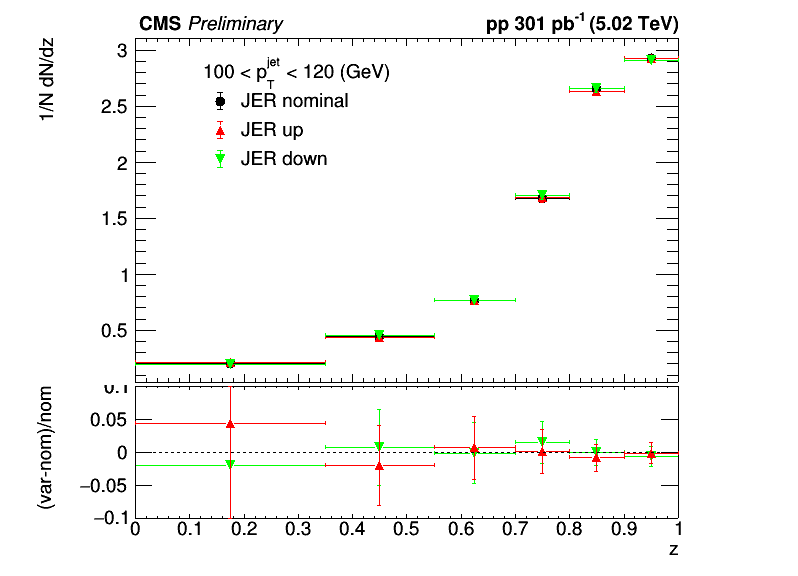
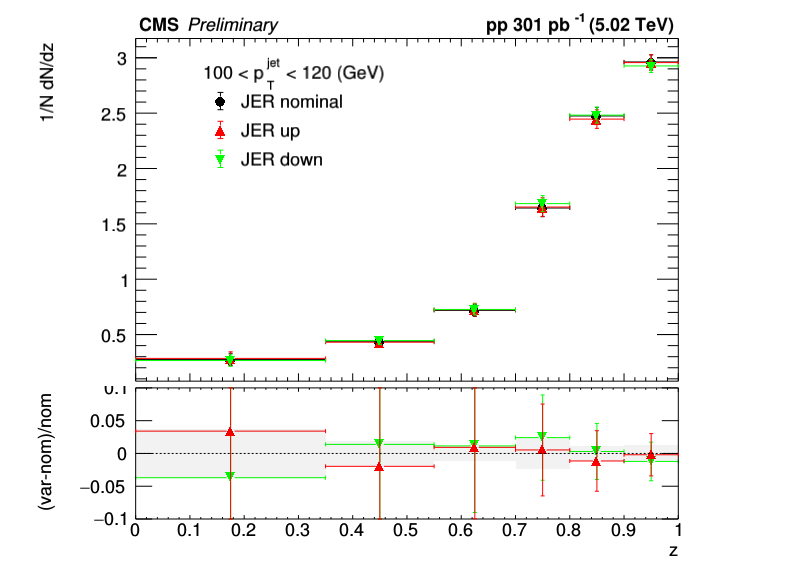
jer for btag with sym

diff --git a/myMacros/C106X/uncertanties/jer_unc.C b/myMacros/C106X/uncertanties/jer_unc.C
@@ -9,8 +9,7 @@ void jer_unc(TString observable="rg")
     gStyle->SetLabelSize(text_size, "XYZ");
     gStyle->SetTitleSize(text_size, "XYZ");
     gStyle->SetErrorX(0.5);
-
-    bool withBtagCorrection = false;
+    gStyle->SetCanvasPreferGL(kTRUE);
 
     TString xlabel;
     if (observable=="rg") xlabel = "ln(0.4/R_{g})";
@@ -41,7 +40,9 @@ void jer_unc(TString observable="rg")
     std::vector<TPad *> bottom_pads = {pad11, pad12, pad13};
     std::vector<TPad *> top_pads = {pad21, pad22, pad23};
     
-    TFile *fout = new TFile("./histos/"+observable+"_jer_unc_XXT.root", "recreate");
+    TString fout_name = "./histos/"+observable+"_jer_unc_XXT.root";
+    std::cout << "fout: " << fout_name << std::endl;
+    TFile *fout = new TFile(fout_name, "recreate");
     
     for (int ibin_pt = 1; ibin_pt <= nbins_pt; ibin_pt++) {
         if (ibin_pt!=2) continue;
@@ -158,6 +159,22 @@ void jer_unc(TString observable="rg")
         h_unc_down_rel->Draw("pe1 same");
         h_unc_up_rel->Draw("pe1 same");
 
+        TH1D *h_unc_rel = (TH1D *) h_unc_up_rel->Clone(Form("h_unc_rel_%d",ibin_pt));
+        TH1D *h_band = (TH1D *) h_unc_rel->Clone("h_band");
+        h_band->Reset();
+        for (int ibin_x=1; ibin_x<=h_unc_rel->GetNbinsX(); ibin_x++) {
+            double maxUnc = std::max(std::abs(h_unc_up_rel->GetBinContent(ibin_x)), std::abs(h_unc_down_rel->GetBinContent(ibin_x)));
+            h_unc_rel->SetBinContent(ibin_x, maxUnc);
+            h_band->SetBinContent(ibin_x, 0.);
+            h_band->SetBinError(ibin_x, maxUnc);
+        }
+        h_unc_rel->Write();
+
+        h_band->SetMarkerSize(0);
+        h_band->SetFillStyle(1001);
+        h_band->SetFillColorAlpha(kBlack, 0.05);
+        h_band->Draw("e2 same");
+
         TLine *line = new TLine(h_unc_up->GetXaxis()->GetBinLowEdge(ibin_x_min), 0, h_unc_up->GetXaxis()->GetBinUpEdge(ibin_x_max), 0);
         line->SetLineStyle(kDashed);
         line->Draw();
@@ -165,6 +182,8 @@ void jer_unc(TString observable="rg")
         c_jer->cd();
         top_pads[ipad]->Draw();
         bottom_pads[ipad]->Draw();   
+
+        
     }
 
     c_jer->Draw();
